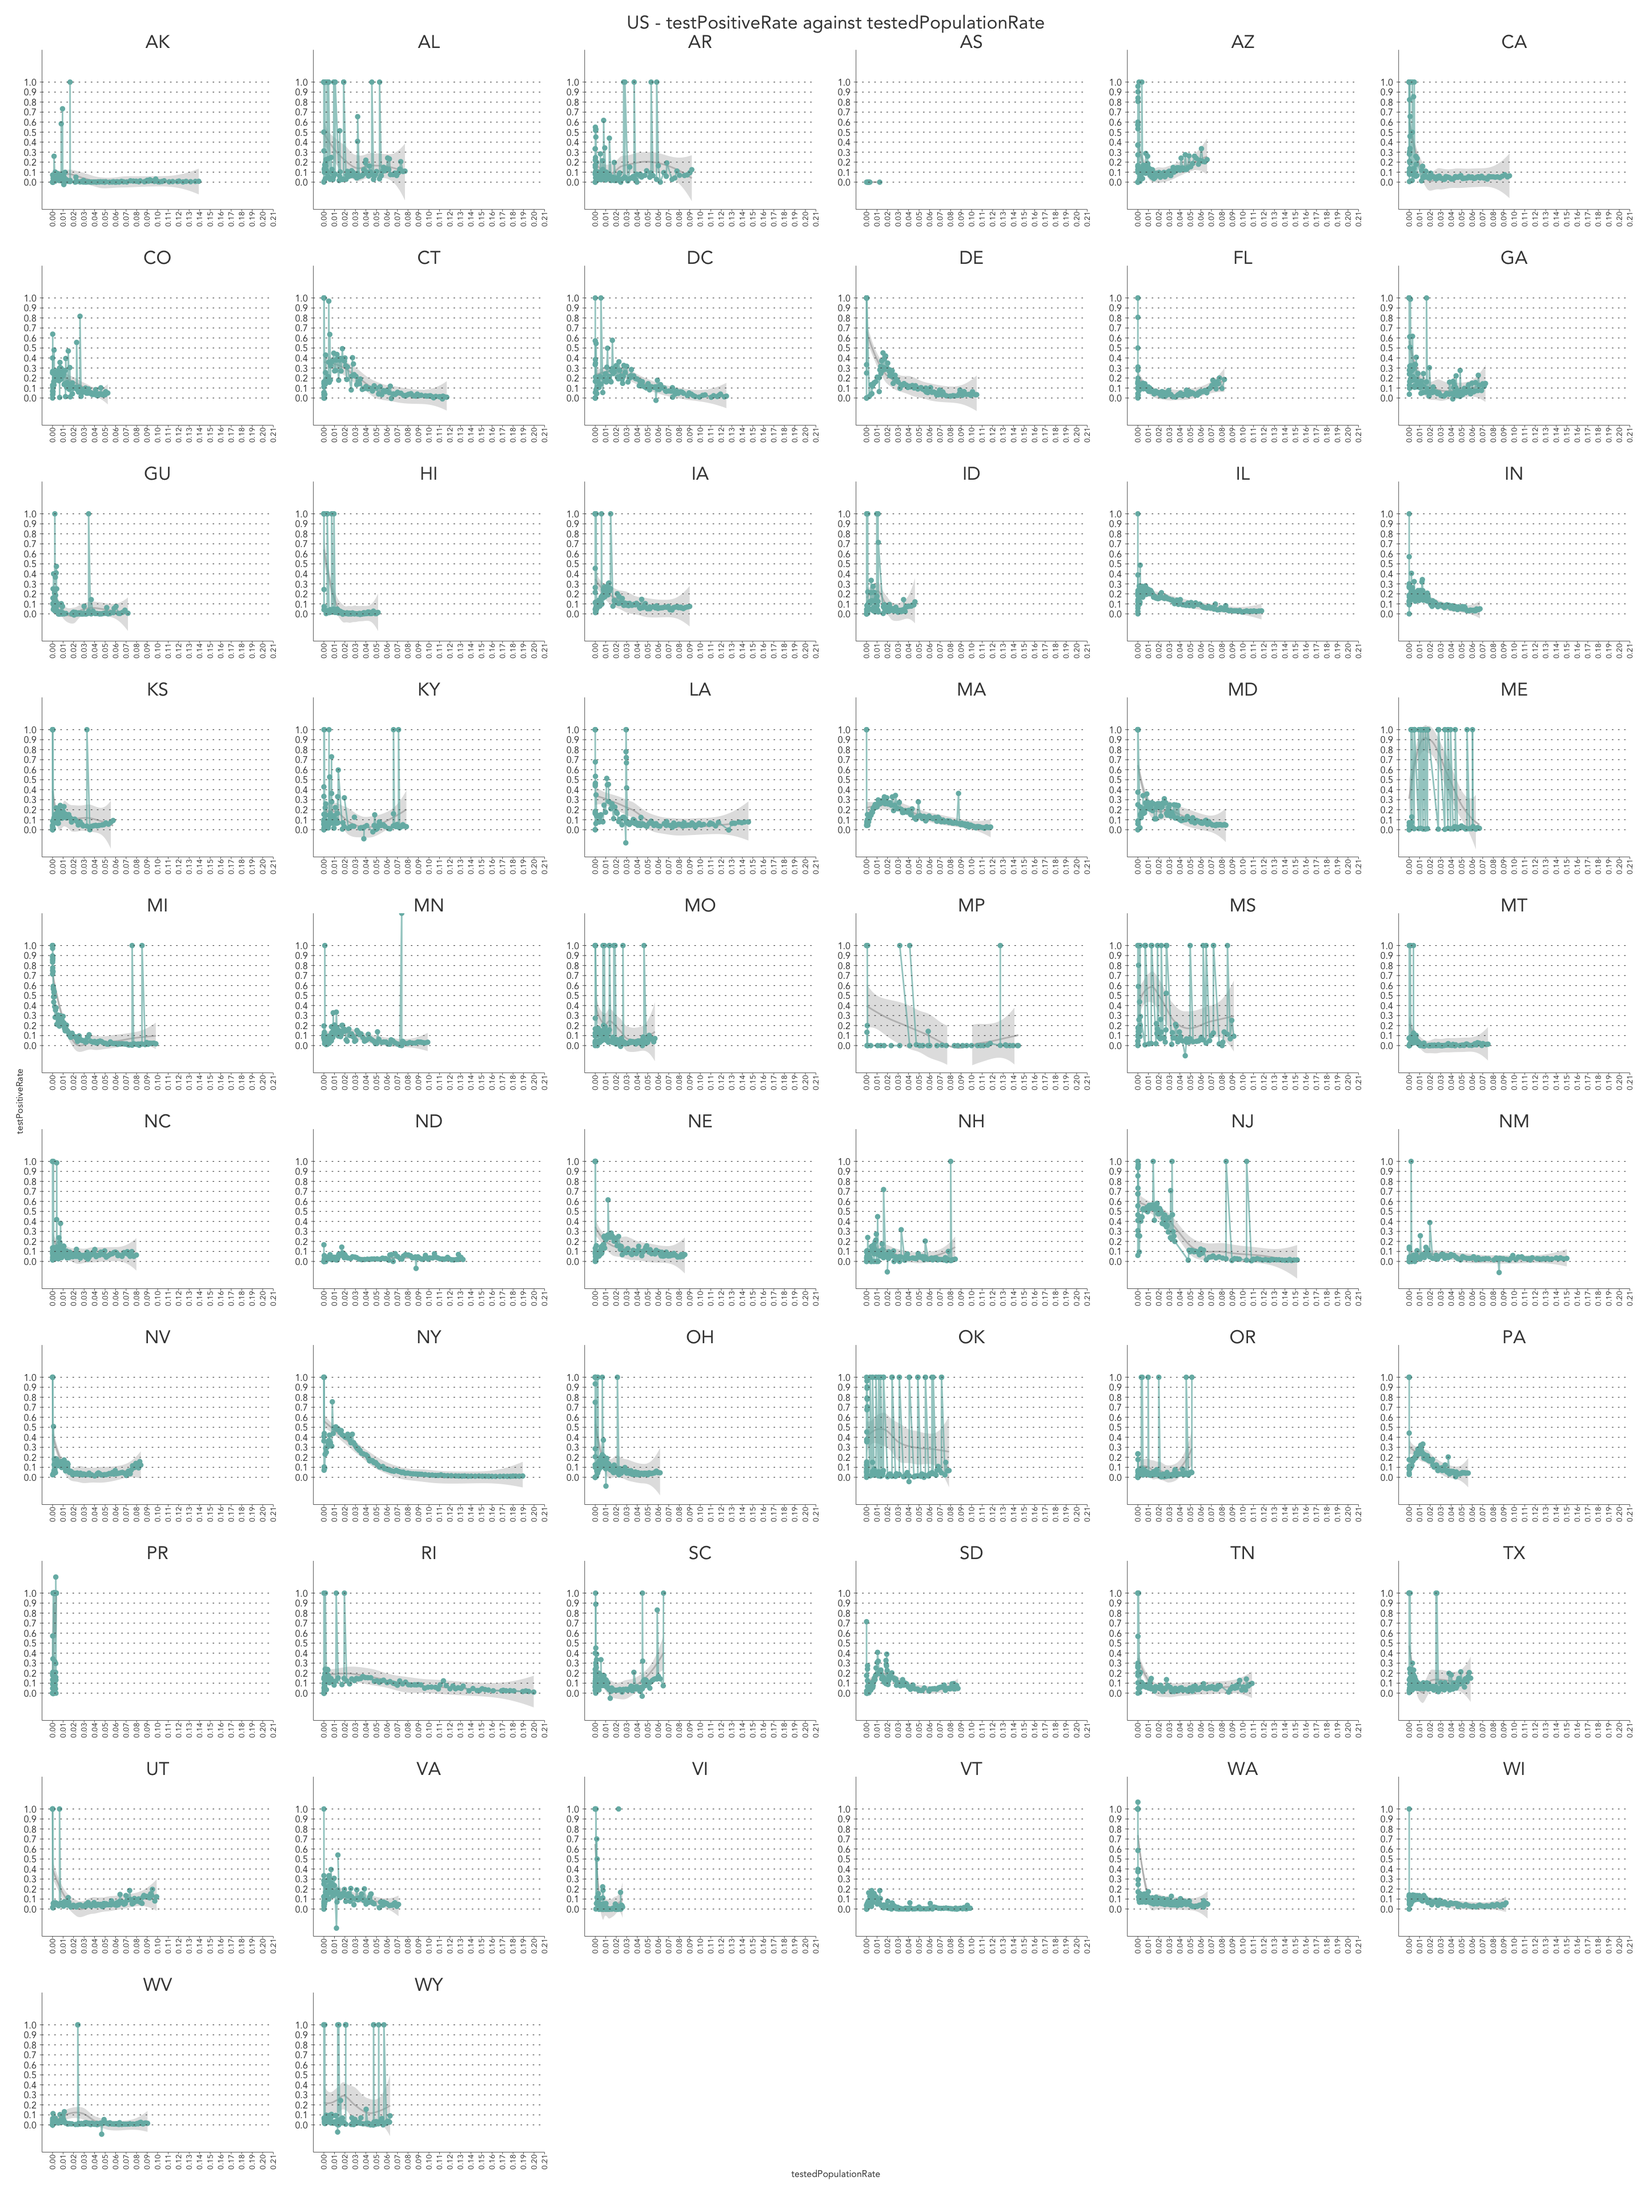
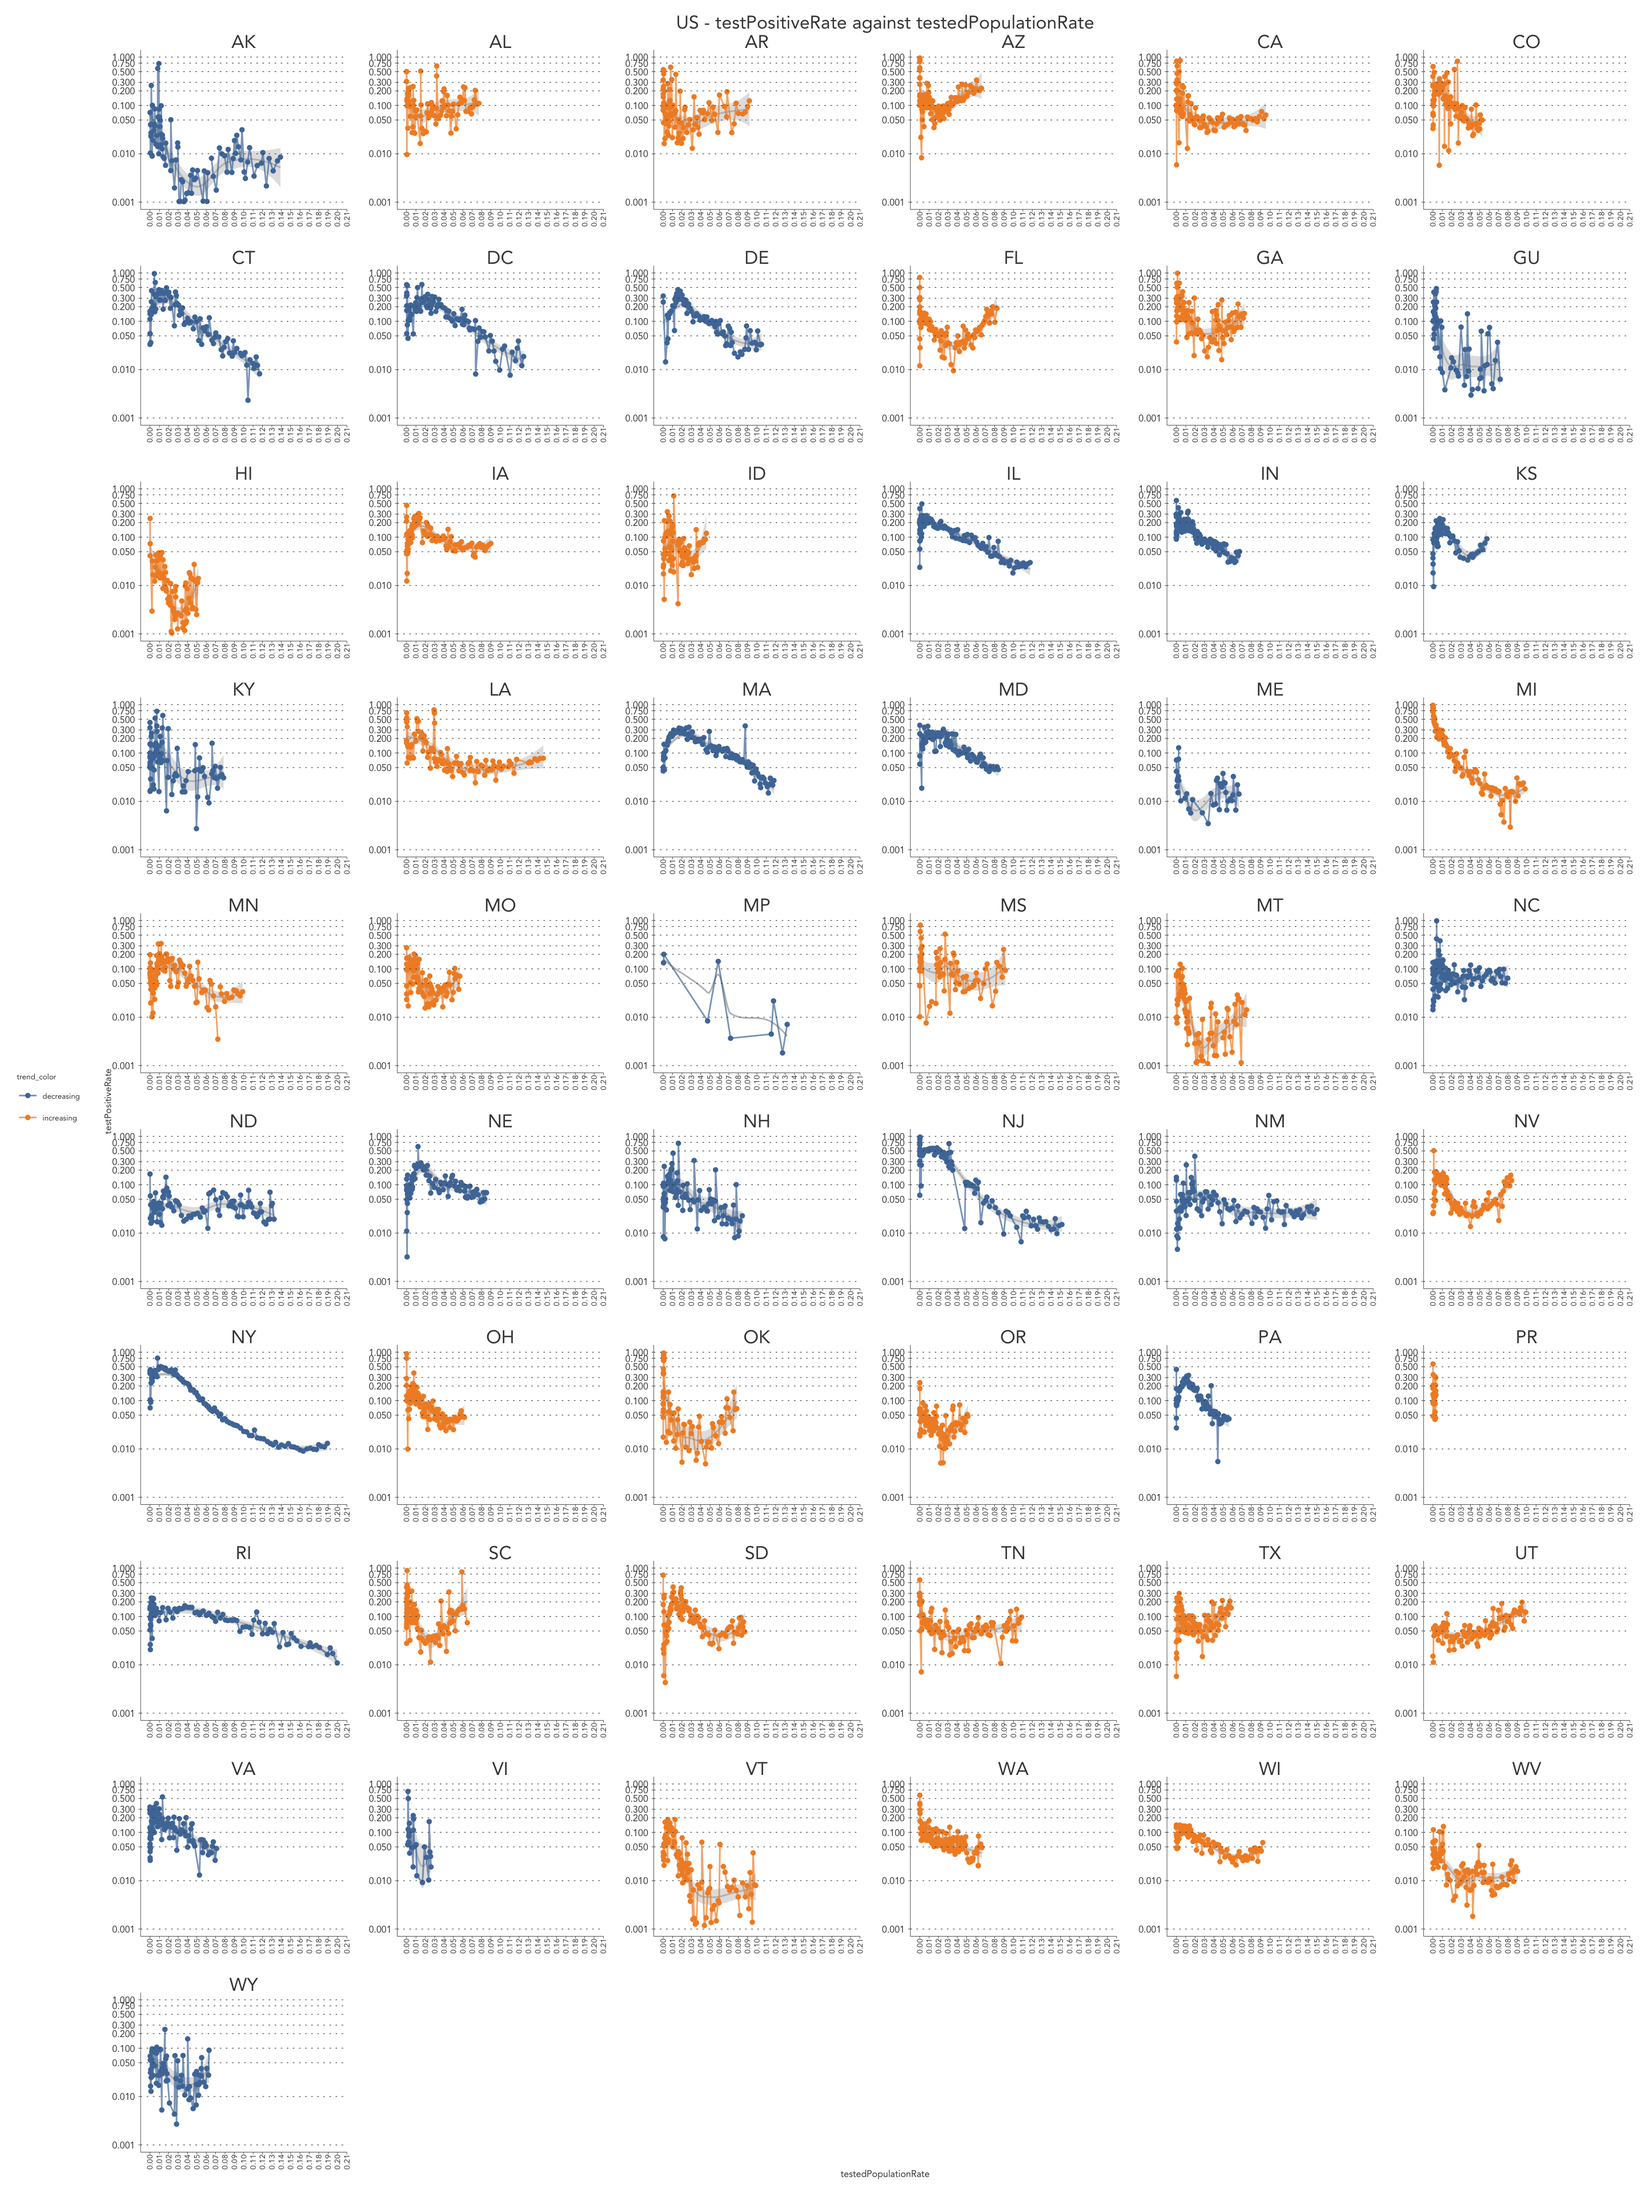
enhance positive rate

diff --git a/covid19-vis.html b/covid19-vis.html
@@ -796,16 +796,31 @@ A
 </div>
 <div id="us---testpositiverate-against-testedpopulationrate" class="section level2">
 <h2>US - testPositiveRate against testedPopulationRate</h2>
-<div class="sourceCode" id="cb8"><pre class="sourceCode r"><code class="sourceCode r"><span id="cb8-1"><a href="#cb8-1"></a>df_states <span class="op">%&gt;%</span><span class="st"> </span></span>
+<div class="sourceCode" id="cb8"><pre class="sourceCode r"><code class="sourceCode r"><span id="cb8-1"><a href="#cb8-1"></a>df_pr &lt;-<span class="st"> </span>df_states <span class="op">%&gt;%</span><span class="st"> </span></span>
 <span id="cb8-2"><a href="#cb8-2"></a><span class="st">    </span><span class="kw">mutate</span>(<span class="dt">testPositiveRate =</span> positiveIncrease <span class="op">/</span><span class="st"> </span>totalTestResultsIncrease, <span class="dt">testedPopulationRate =</span> totalTestResults <span class="op">/</span><span class="st"> </span>population) <span class="op">%&gt;%</span></span>
-<span id="cb8-3"><a href="#cb8-3"></a><span class="st">    </span><span class="kw">ggplot</span>() <span class="op">%&gt;%</span></span>
-<span id="cb8-4"><a href="#cb8-4"></a><span class="st">    </span><span class="op">+</span><span class="st"> </span><span class="kw">geom_smooth</span>(<span class="dt">mapping =</span> <span class="kw">aes</span>(<span class="dt">x =</span> testedPopulationRate, <span class="dt">y =</span> testPositiveRate), <span class="dt">color =</span> <span class="st">&quot;gray&quot;</span>, <span class="dt">alpha =</span> <span class="fl">0.3</span>, <span class="dt">method =</span> <span class="st">&quot;loess&quot;</span>, <span class="dt">size =</span> LINE_SIZE) <span class="op">%&gt;%</span></span>
-<span id="cb8-5"><a href="#cb8-5"></a><span class="st">    </span><span class="op">+</span><span class="st"> </span><span class="kw">geom_line</span>(<span class="dt">mapping =</span> <span class="kw">aes</span>(<span class="dt">x =</span> testedPopulationRate, <span class="dt">y =</span> testPositiveRate), <span class="dt">alpha =</span> <span class="fl">0.7</span>, <span class="dt">color =</span> tableau10[<span class="dv">4</span>], <span class="dt">size =</span> LINE_SIZE) <span class="op">%&gt;%</span></span>
-<span id="cb8-6"><a href="#cb8-6"></a><span class="st">    </span><span class="op">+</span><span class="st"> </span><span class="kw">geom_point</span>(<span class="dt">mapping =</span> <span class="kw">aes</span>(<span class="dt">x =</span> testedPopulationRate, <span class="dt">y =</span> testPositiveRate), <span class="dt">color =</span> tableau10[<span class="dv">4</span>], <span class="dt">size =</span> <span class="dv">1</span>) <span class="op">%&gt;%</span></span>
-<span id="cb8-7"><a href="#cb8-7"></a><span class="st">    </span><span class="op">+</span><span class="st"> </span><span class="kw">scale_x_continuous</span>(<span class="dt">limits =</span> <span class="kw">c</span>(<span class="dv">0</span>, <span class="fl">0.20</span>), <span class="dt">breaks =</span> <span class="kw">seq</span>(<span class="dv">0</span>, <span class="dv">1</span>, <span class="dt">by =</span> <span class="fl">0.01</span>)) <span class="op">%&gt;%</span></span>
-<span id="cb8-8"><a href="#cb8-8"></a><span class="st">    </span><span class="op">+</span><span class="st"> </span><span class="kw">scale_y_continuous</span>(<span class="dt">limits =</span> <span class="kw">c</span>(<span class="op">-</span>.<span class="dv">2</span>, <span class="fl">1.25</span>), <span class="dt">breaks =</span> <span class="kw">seq</span>(<span class="dv">0</span>, <span class="dv">1</span>, <span class="dt">by =</span> <span class="fl">0.1</span>)) <span class="op">%&gt;%</span></span>
-<span id="cb8-9"><a href="#cb8-9"></a><span class="st">    </span><span class="op">+</span><span class="st"> </span><span class="kw">facet_wrap</span>(state <span class="op">~</span><span class="st"> </span>., <span class="dt">ncol =</span> <span class="dv">6</span>, <span class="dt">scales =</span> <span class="st">&quot;free&quot;</span>)  <span class="op">%&gt;%</span></span>
-<span id="cb8-10"><a href="#cb8-10"></a><span class="st">    </span><span class="op">+</span><span class="st"> </span><span class="kw">xlab</span>(<span class="st">&quot;testedPopulationRate&quot;</span>) <span class="op">+</span><span class="st"> </span><span class="kw">ylab</span>(<span class="st">&quot;testPositiveRate&quot;</span>) <span class="op">+</span><span class="st"> </span><span class="kw">ggtitle</span>(<span class="st">&quot;US - testPositiveRate against testedPopulationRate&quot;</span>)</span></code></pre></div>
+<span id="cb8-3"><a href="#cb8-3"></a><span class="st">    </span><span class="kw">filter</span>(testPositiveRate <span class="op">&gt;</span><span class="st"> </span><span class="dv">0</span> <span class="op">&amp;</span><span class="st"> </span>testPositiveRate <span class="op">&lt;</span><span class="st"> </span><span class="dv">1</span>) <span class="co"># rm buggy data to allow log scales</span></span>
+<span id="cb8-4"><a href="#cb8-4"></a>  </span>
+<span id="cb8-5"><a href="#cb8-5"></a>df_pr_colors &lt;-<span class="st">  </span>df_pr <span class="op">%&gt;%</span></span>
+<span id="cb8-6"><a href="#cb8-6"></a><span class="st">  </span><span class="kw">group_by</span>(state)<span class="op">%&gt;%</span></span>
+<span id="cb8-7"><a href="#cb8-7"></a><span class="st">  </span><span class="kw">arrange</span>(date, <span class="dt">.by_group =</span> <span class="ot">TRUE</span>) <span class="op">%&gt;%</span></span>
+<span id="cb8-8"><a href="#cb8-8"></a><span class="st">  </span><span class="kw">slice_tail</span>(<span class="dt">n =</span> num_lag) <span class="op">%&gt;%</span><span class="st"> </span><span class="co"># last N days</span></span>
+<span id="cb8-9"><a href="#cb8-9"></a><span class="st">  </span><span class="kw">summarise</span>(<span class="dt">trend_coef =</span> <span class="kw">find_coef</span>(date, testPositiveRate)) <span class="op">%&gt;%</span><span class="st"> </span></span>
+<span id="cb8-10"><a href="#cb8-10"></a><span class="st">  </span><span class="kw">mutate</span>(<span class="dt">trend_color =</span> <span class="kw">ifelse</span>(trend_coef <span class="op">&gt;</span><span class="st"> </span><span class="dv">0</span>, <span class="st">&quot;increasing&quot;</span>, <span class="kw">ifelse</span>(trend_coef <span class="op">&lt;</span><span class="st"> </span><span class="dv">0</span>, <span class="st">&quot;decreasing&quot;</span>, <span class="st">&quot;stable&quot;</span>))) <span class="op">%&gt;%</span><span class="st"> </span></span>
+<span id="cb8-11"><a href="#cb8-11"></a><span class="st">  </span><span class="kw">ungroup</span>()<span class="op">%&gt;%</span></span>
+<span id="cb8-12"><a href="#cb8-12"></a><span class="st">  </span><span class="kw">replace</span>(<span class="kw">is.na</span>(.), <span class="dv">0</span>) <span class="op">%&gt;%</span></span>
+<span id="cb8-13"><a href="#cb8-13"></a><span class="st">  </span><span class="kw">select</span>(state, trend_coef, trend_color) </span>
+<span id="cb8-14"><a href="#cb8-14"></a></span>
+<span id="cb8-15"><a href="#cb8-15"></a>df_pr <span class="op">%&gt;%</span></span>
+<span id="cb8-16"><a href="#cb8-16"></a><span class="st"> </span><span class="kw">inner_join</span>(df_pr_colors, <span class="dt">by =</span> <span class="st">&quot;state&quot;</span>) <span class="op">%&gt;%</span></span>
+<span id="cb8-17"><a href="#cb8-17"></a><span class="st"> </span><span class="kw">ggplot</span>() <span class="op">%&gt;%</span></span>
+<span id="cb8-18"><a href="#cb8-18"></a><span class="st">    </span><span class="op">+</span><span class="st"> </span><span class="kw">geom_smooth</span>(<span class="dt">mapping =</span> <span class="kw">aes</span>(<span class="dt">x =</span> testedPopulationRate, <span class="dt">y =</span> testPositiveRate), <span class="dt">color =</span> <span class="st">&quot;gray&quot;</span>, <span class="dt">alpha =</span> <span class="fl">0.3</span>, <span class="dt">method =</span> <span class="st">&quot;loess&quot;</span>, <span class="dt">size =</span> LINE_SIZE) <span class="op">%&gt;%</span></span>
+<span id="cb8-19"><a href="#cb8-19"></a><span class="st">    </span><span class="op">+</span><span class="st"> </span><span class="kw">geom_line</span>(<span class="dt">mapping =</span> <span class="kw">aes</span>(<span class="dt">x =</span> testedPopulationRate, <span class="dt">y =</span> testPositiveRate, <span class="dt">color =</span> trend_color), <span class="dt">alpha =</span> <span class="fl">0.7</span>, <span class="dt">size =</span> LINE_SIZE) <span class="op">%&gt;%</span></span>
+<span id="cb8-20"><a href="#cb8-20"></a><span class="st">    </span><span class="op">+</span><span class="st"> </span><span class="kw">geom_point</span>(<span class="dt">mapping =</span> <span class="kw">aes</span>(<span class="dt">x =</span> testedPopulationRate, <span class="dt">y =</span> testPositiveRate, <span class="dt">color =</span> trend_color), <span class="dt">size =</span> <span class="dv">1</span>) <span class="op">%&gt;%</span></span>
+<span id="cb8-21"><a href="#cb8-21"></a><span class="st">    </span><span class="op">+</span><span class="st"> </span><span class="kw">scale_x_continuous</span>(<span class="dt">limits =</span> <span class="kw">c</span>(<span class="dv">0</span>, <span class="fl">0.20</span>), <span class="dt">breaks =</span> <span class="kw">seq</span>(<span class="dv">0</span>, <span class="fl">0.5</span>, <span class="dt">by =</span> <span class="fl">0.01</span>)) <span class="op">%&gt;%</span></span>
+<span id="cb8-22"><a href="#cb8-22"></a><span class="st">    </span><span class="op">+</span><span class="st"> </span><span class="kw">scale_y_continuous</span>(<span class="dt">limits =</span> <span class="kw">c</span>(<span class="fl">0.001</span>, <span class="dv">1</span>), <span class="dt">trans =</span> <span class="st">&#39;log10&#39;</span>, <span class="dt">breaks =</span> <span class="kw">c</span>(<span class="fl">0.001</span>, <span class="fl">0.01</span>, <span class="fl">0.05</span>, <span class="fl">0.1</span>, <span class="fl">0.2</span>, <span class="fl">0.3</span>, <span class="fl">0.5</span>, <span class="fl">0.75</span>, <span class="dv">1</span>)) <span class="op">%&gt;%</span></span>
+<span id="cb8-23"><a href="#cb8-23"></a><span class="st">    </span><span class="op">+</span><span class="st"> </span><span class="kw">scale_colour_tableau</span>() <span class="op">%&gt;%</span></span>
+<span id="cb8-24"><a href="#cb8-24"></a><span class="st">    </span><span class="op">+</span><span class="st"> </span><span class="kw">facet_wrap</span>(state <span class="op">~</span><span class="st"> </span>., <span class="dt">ncol =</span> <span class="dv">6</span>, <span class="dt">scales =</span> <span class="st">&quot;free&quot;</span>)  <span class="op">%&gt;%</span></span>
+<span id="cb8-25"><a href="#cb8-25"></a><span class="st">    </span><span class="op">+</span><span class="st"> </span><span class="kw">xlab</span>(<span class="st">&quot;testedPopulationRate&quot;</span>) <span class="op">+</span><span class="st"> </span><span class="kw">ylab</span>(<span class="st">&quot;testPositiveRate&quot;</span>) <span class="op">+</span><span class="st"> </span><span class="kw">ggtitle</span>(<span class="st">&quot;US - testPositiveRate against testedPopulationRate&quot;</span>)</span></code></pre></div>
 <p><img src="covid19-vis_files/figure-html/unnamed-chunk-9-1.png" width="1440" /></p>
 </div>
 <div id="us---death-per-10k-by-state" class="section level2">
